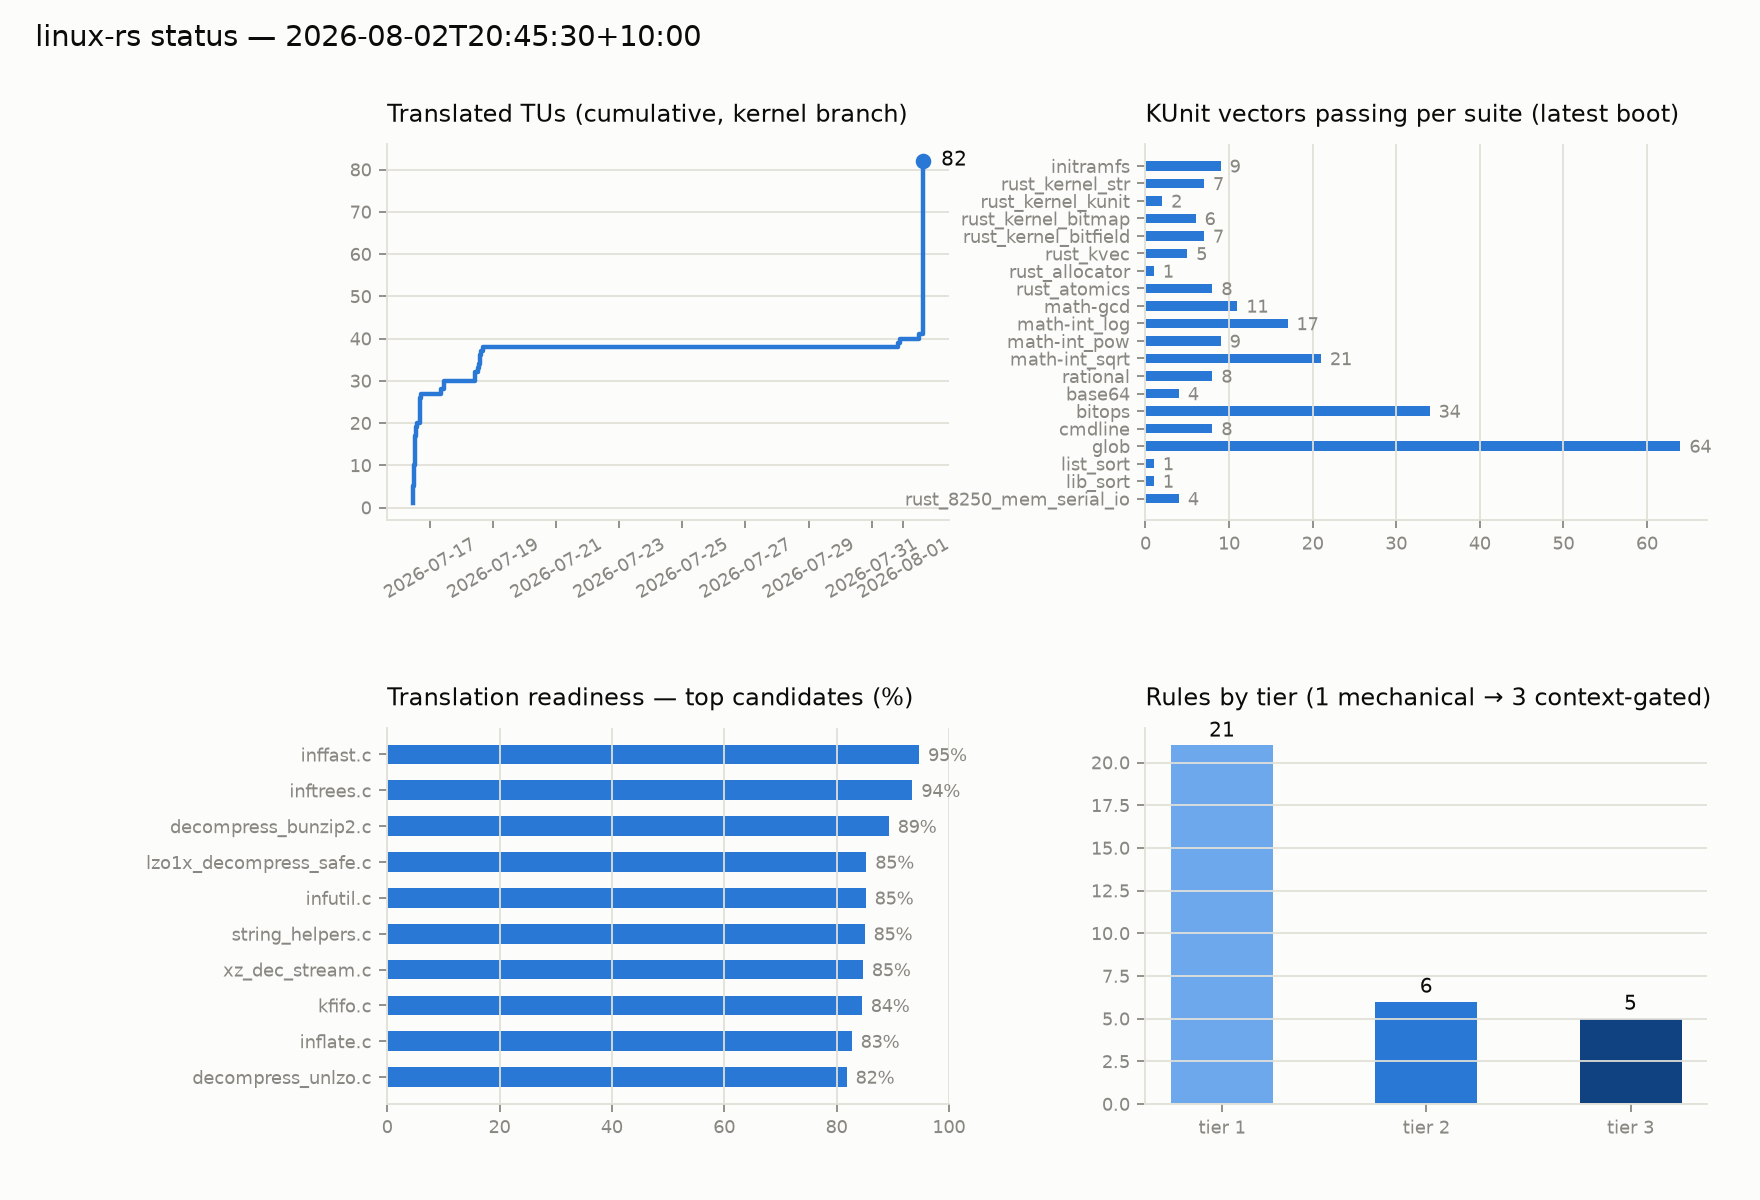
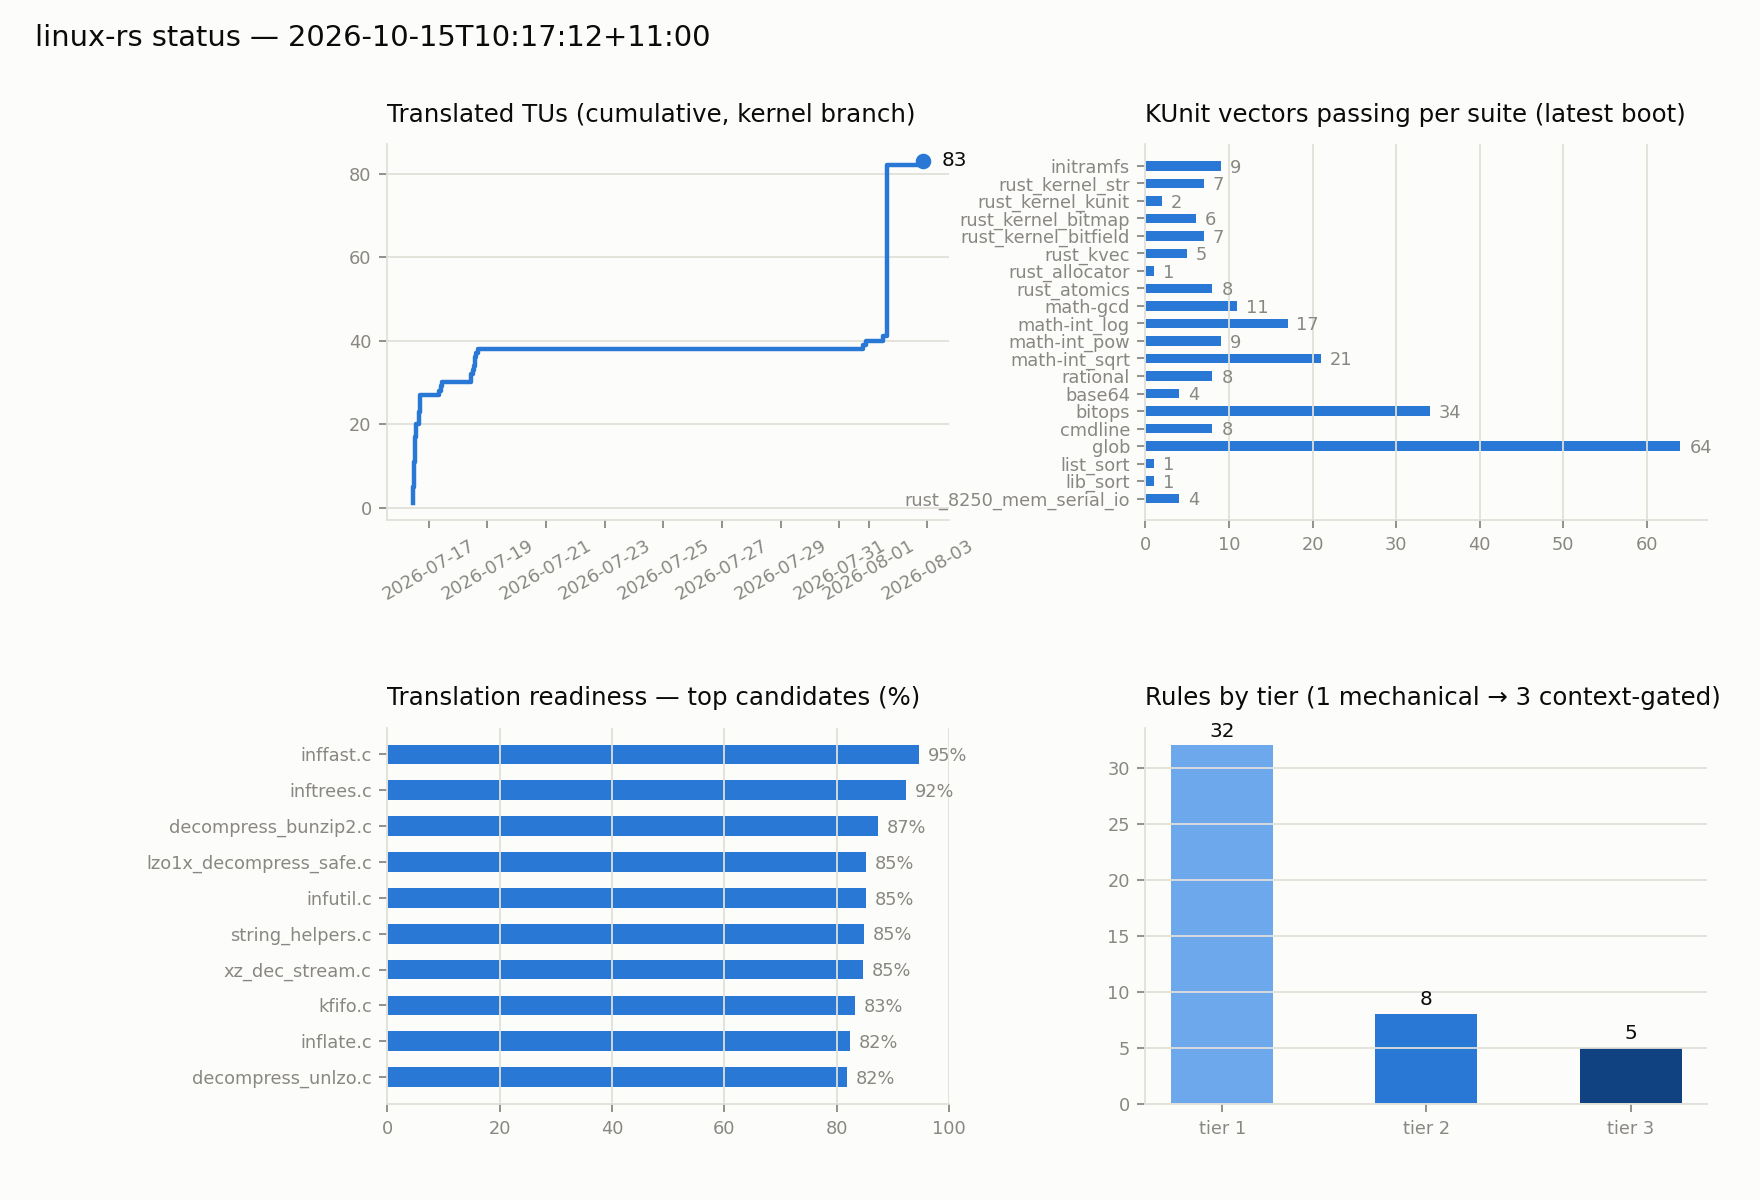
Re-record 12 reviewed TUs at series base; status regen (#119)
- v7.1 -> base C diffs reviewed per TU (translated functions only).
- Ported in kernel series: base64 decode-tail validate-before-write,
  string strncpy() removal, bitmap-str doc. Rest already reflected or
  outside translated functions.
- check_tu_provenance.py PASS (42). docs/STATUS.md + history.csv from report.py.

diff --git a/docs/STATUS.md b/docs/STATUS.md
@@ -1,8 +1,8 @@
-# Status — 2026-08-02T20:45:30+10:00
+# Status — 2026-10-15T10:17:12+11:00
 
 ![status](status/status.png)
 
-- Translated TUs: **41** (**41 hand** — bridge, tracked for transpiler replacement · **0 c2rust**)   ·   KUnit: **20 suites, 224 vectors** green   ·   Rules: **32** (t1 21 / t2 6 / t3 5)
+- Translated TUs: **42** (**41 hand** — bridge, tracked for transpiler replacement · **1 c2rust**)   ·   KUnit: **20 suites, 224 vectors** green   ·   Rules: **45** (t1 32 / t2 8 / t3 5)
 - Wired into live boot path: **6 functions across 1 file(s)** (vs. **42** total TUs landed) — see [docs/streams.md](streams.md)'s stream 2 ("c2rust-boot-blocker") for why this is the harder, more important milestone: a standalone `lib/` swap compiling clean is not the same as real Rust executing at a live, pre-existing C call site.
 
 ## Boot-path integration patterns (live-derived, not hand-maintained)
@@ -98,14 +98,14 @@ Every file here is hand-written Rust, not transpiler output — a visible, track
 | TU | readiness |
 |---|---|
 | lib/zlib_inflate/inffast.c | 94.7% |
-| lib/zlib_inflate/inftrees.c | 93.5% |
-| lib/decompress_bunzip2.c | 89.3% |
+| lib/zlib_inflate/inftrees.c | 92.3% |
+| lib/decompress_bunzip2.c | 87.3% |
 | lib/lzo/lzo1x_decompress_safe.c | 85.3% |
 | lib/zlib_inflate/infutil.c | 85.2% |
-| lib/string_helpers.c | 85.0% |
+| lib/string_helpers.c | 84.8% |
 | lib/xz/xz_dec_stream.c | 84.7% |
-| lib/kfifo.c | 84.5% |
-| lib/zlib_inflate/inflate.c | 82.7% |
+| lib/kfifo.c | 83.3% |
+| lib/zlib_inflate/inflate.c | 82.4% |
 | lib/decompress_unlzo.c | 81.8% |
 
 _Auto-generated by `scripts/report.py` (via `dev.py check`); history in [status/history.csv](status/history.csv)._
